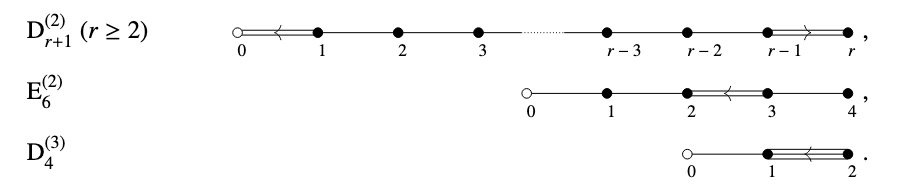
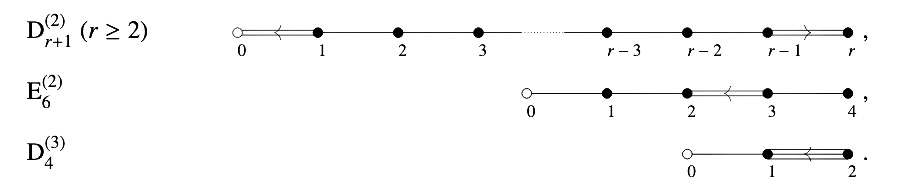
image adjustments

diff --git a/index.html b/index.html
@@ -194,7 +194,7 @@
           <div style="text-align:right;">
             <img src="/Images/QYBE_only.png"
                  alt="Quantum Yang–Baxter diagram"
-                 style="width:100%; height:auto; max-width:260px; opacity:.65;margin-top:-5px;">
+                 style="width:100%; height:auto; max-width:260px; opacity:.65;margin-top:-15px;">
           </div>
         </div>
 
